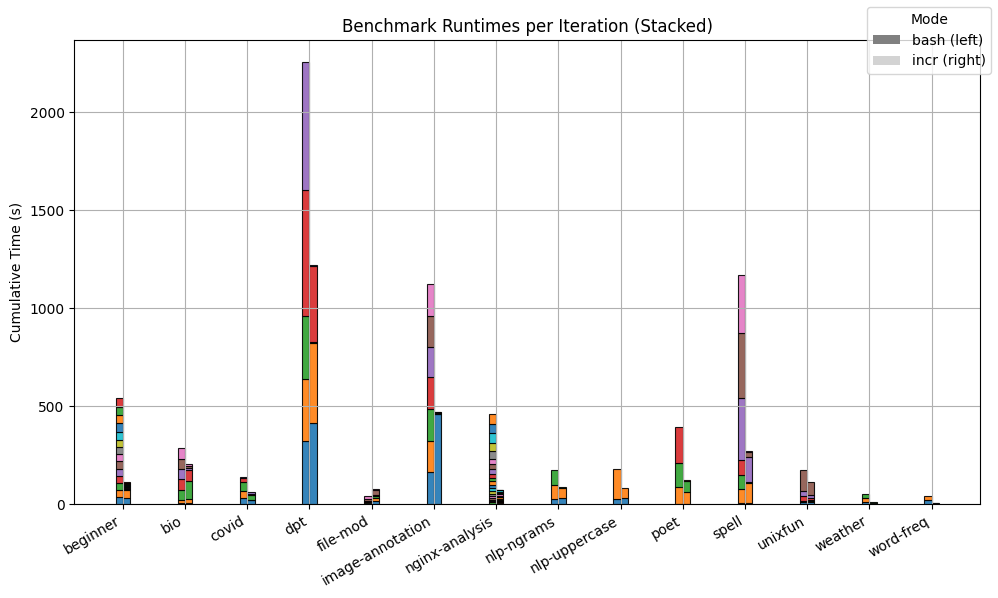
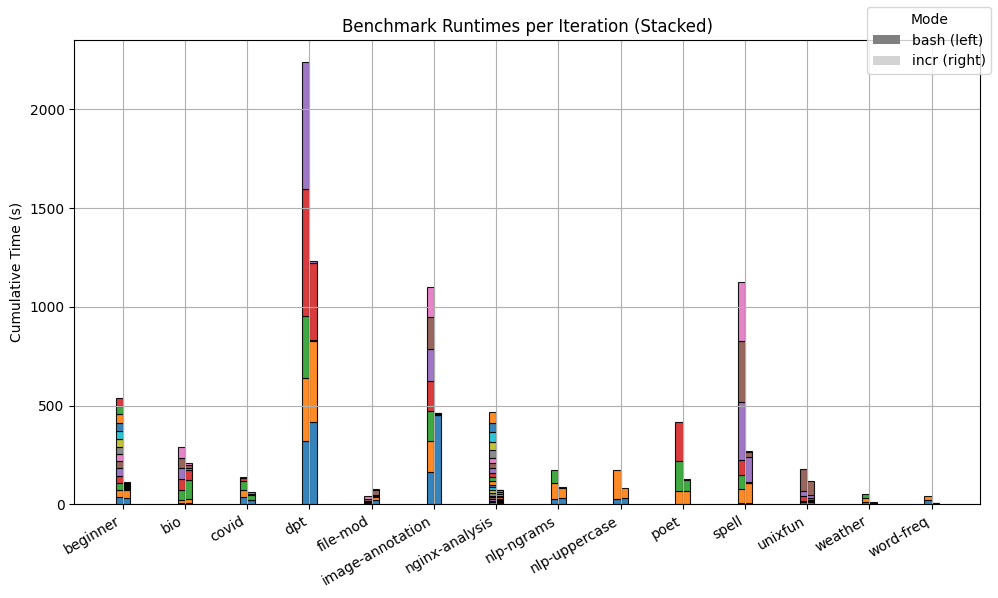
second annotation

diff --git a/evaluation/analysis/plot.py b/evaluation/analysis/plot.py
@@ -20,7 +20,7 @@ BENCHMARKS = [
     "weather",
     "word-freq",
 ]
-DIRECTORY = "../annotation_results/annotation_1"
+DIRECTORY = "../annotation_results/annotation_2"
 
 figure, axes = plt.subplots(figsize=(10, 6))
 axes.grid()
